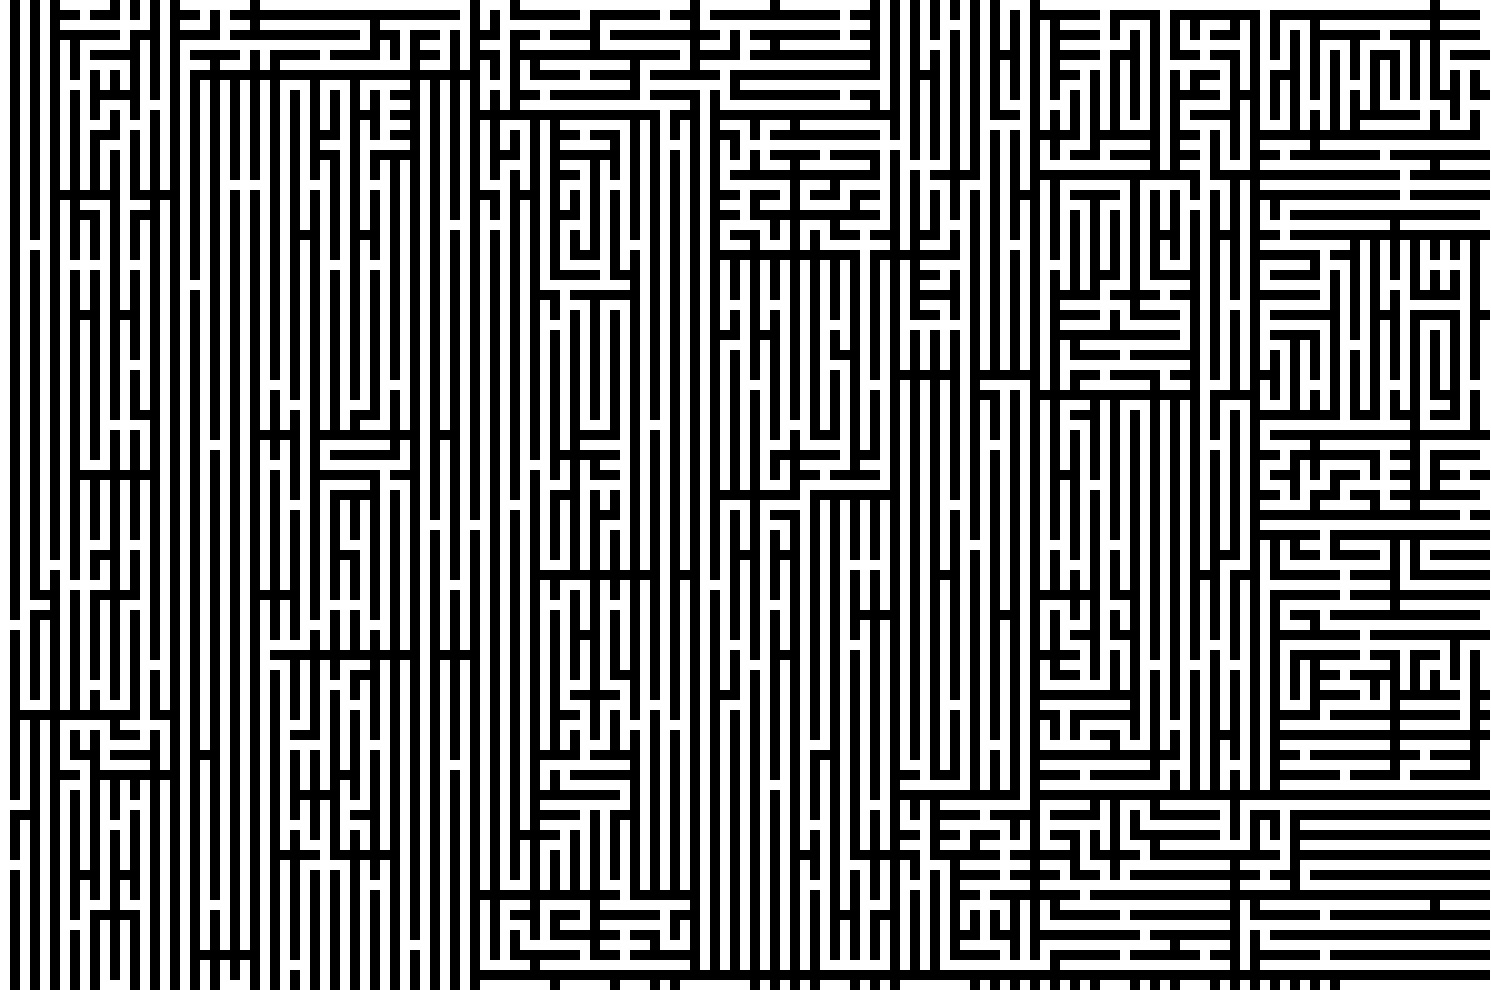
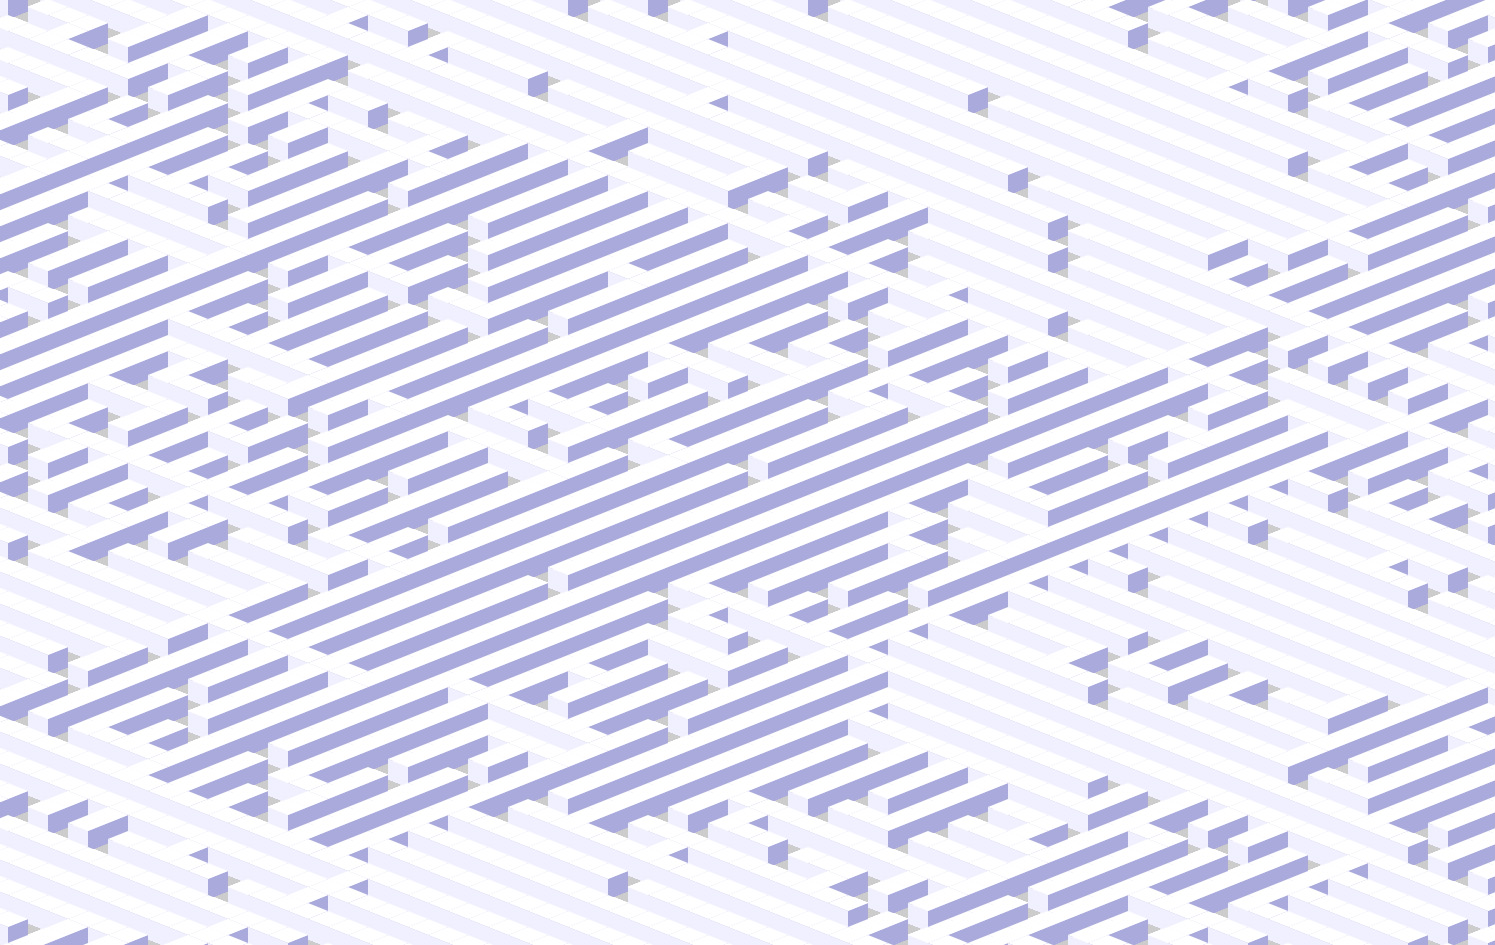
Isometric 3D, another post

diff --git a/project_code/html/gradual.html b/project_code/html/gradual.html
@@ -2,39 +2,99 @@
 <html>
   <head>
     <title>The Gradual Introduction of New Ideas</title>
+
     <meta charset="UTF-8">
-    <script type="text/javascript" src="js/processing-1.4.1.js"></script>
-    <script type="text/javascript" src="js/maze.js"></script>
+
+    <script type="text/javascript" src="js/processing-1.4.1.js"> </script>
+    <script type="text/javascript" src="js/maze.js">             </script>
 
     <script type="text/processing" data-processing-target="canvas">
-        float y_off = 0.0;
+
+
+        boolean isometric = true;
+
+        float CANVAS_WIDTH  = 1500;
+        float CANVAS_HEIGHT = 1000;
+
+        float FIELD_X = +(CANVAS_WIDTH  / 2);
+        float FIELD_Y = -(CANVAS_HEIGHT / 2);
+
+        float BLOCK_WIDTH  = 20;
+        float BLOCK_HEIGHT = 20;
+        float ELEVATION = 8;
 
         void setup()
         {
-           size(1500, 1000);
+           size(CANVAS_WIDTH, CANVAS_HEIGHT);
+
+           noStroke();
         }
 
         void draw()
         {
-           noStroke();
-
            for (int x = 0; x < maze.length; x += 1)
            {
               for (int y = 0; y < maze[x].length; y += 1)
               {
-                 if (maze[y][x])
+                 if (isometric)
                  {
-                    fill(0);
+                    if (maze[y][x])
+                    {
+                       drawCube(x, y, 0);
+                    }
                  }
                  else
                  {
-                    fill(255);
-                 }
+                    if (maze[y][x])
+                    {
+                       fill(0);
+                    }
+                    else
+                    {
+                       fill(255);
+                    }
 
-                 rect((x * 10), (y * 10), (10), (10));
+                    rect((x * 10), (y * 10), (10), (10));
+                 }
               }
            }
+
+           if (isometric)
+           {
+              drawAgent();
+           }
         }
+
+        void drawCube(int xp,int yp, float zp)
+        {
+           float x = FIELD_X + (xp * BLOCK_WIDTH) - (yp * BLOCK_WIDTH);
+           float y = FIELD_Y + (xp * ELEVATION) + (yp * ELEVATION) - (zp * BLOCK_HEIGHT);
+
+           fill(240,240,255);
+           quad(x, y, x, y + BLOCK_HEIGHT, x + BLOCK_WIDTH, y + BLOCK_HEIGHT + ELEVATION, x + BLOCK_WIDTH, y + ELEVATION);
+
+           fill(170,170,220);
+           quad(x + BLOCK_WIDTH, y + BLOCK_HEIGHT + ELEVATION, x + BLOCK_WIDTH, y + ELEVATION, x + BLOCK_WIDTH + BLOCK_WIDTH, y, x + BLOCK_WIDTH + BLOCK_WIDTH, y + BLOCK_HEIGHT);
+
+           fill(255 -(3 * zp));
+           quad(x, y, x + BLOCK_WIDTH, y + ELEVATION, x + BLOCK_WIDTH + BLOCK_WIDTH, y, x + BLOCK_WIDTH, y - ELEVATION);
+        }
+
+        void drawAgent()
+        {
+           fill(0, 0, 0);
+           ellipse(CANVAS_WIDTH / 2, CANVAS_HEIGHT / 2, 24, 24);
+
+           fill(170, 0, 0);
+           ellipse(CANVAS_WIDTH / 2, CANVAS_HEIGHT / 2, 22, 22);
+
+           fill(255, 110, 110);
+           ellipse(0.5 + (CANVAS_WIDTH / 2), -0.5 + (CANVAS_HEIGHT / 2), 21, 21);
+
+           fill(255, 245, 245);
+           ellipse(4.5 + (CANVAS_WIDTH / 2), -4.5 + (CANVAS_HEIGHT / 2), 3, 3);
+        }
+
 
     </script>
   </head>

diff --git a/project_code/html/js/maze.js b/project_code/html/js/maze.js
@@ -1,11 +1,8 @@
-var states = new Array();
-var notes  = new Array();
-
 var punchHoles = true;
 
 var NORTH = 0, EAST = 1, SOUTH = 2, WEST = 3;
 
-var maze = generateMaze(250, 250);
+var maze = generateMaze(120, 120);
 
 function generateMaze(width, height)
 {
@@ -52,13 +49,7 @@ function generateMaze(width, height)
 
 function divide(maze, startX, startY, endX, endY)
 {
-   if (notes)
-   {
-      // Add a new list of comments on this generation.
-      notes.push(new Array());
-   }
-
-   log("Dividing cell with x-values (" + startX + "-" + endX + "), \n y-values (" + startY + "-" + endY + ").");
+   log("Dividing cell with x-values (" + startX + "-" + endX + "), y-values (" + startY + "-" + endY + ").");
 
    /**
     * Draw the insides of the maze, using the recursive division method.  Pick out X and Y locations
@@ -226,21 +217,13 @@ function divide(maze, startX, startY, endX, endY)
       }
    }
 
-   if (states)
-   {
-      // Record the current state of the maze, so we get a replay of the maze generation algorithm.
-      states.push(clone(maze));
-   }
-
    /**
     * Continue to divide the four cells we have created, if they are sufficiently large.
     */
-
    if (wallY - startY > 3 && wallX - startX > 3)
    {
       log("Dividing NORTH WEST cell.");
 
-      // Divide the NORTH WEST cell further.
       divide(maze, startX, startY, wallX, wallY);
    }
 
@@ -248,7 +231,6 @@ function divide(maze, startX, startY, endX, endY)
    {
       log("Dividing NORTH EAST cell.");
 
-      // Divide the NORTH EAST cell further.
       divide(maze, wallX, startY, endX, wallY);
    }
 
@@ -256,7 +238,6 @@ function divide(maze, startX, startY, endX, endY)
    {
       log("Dividing SOUTH EAST cell.");
 
-      // Divide the SOUTH EAST cell further.
       divide(maze, wallX, wallY, endX, endY);
    }
 
@@ -264,7 +245,6 @@ function divide(maze, startX, startY, endX, endY)
    {
       log("Dividing SOUTH WEST cell.");
 
-      // Divide the SOUTH WEST cell further.
       divide(maze, startX, wallY, wallX, endY);
    }
 
@@ -289,11 +269,6 @@ function punchAt(a, b)
 function log(message)
 {
    console.log(message);
-
-   if (notes)
-   {
-      notes[ notes.length - 1 ].push(message);
-   }
 }
 
 function clone(array)

diff --git a/project_posts/2014-02-17-Isometric.md b/project_posts/2014-02-17-Isometric.md
@@ -1,0 +1,11 @@
+## 3D (Kind Of)
+
+The maze is now rendered in isometric 3D, courtesy of this code sample:
+
+http://www.openprocessing.org/sketch/6652#
+
+A sample result is here:
+
+https://github.com/malcolmscurlyhair/devart-template/blob/master/project_images/isometric-maze.png
+
+I've kept the rendering configurable, since it's going to be easier to built the rest of the functionality with a topdown, overhead view.

diff --git a/project_posts/2014-02-01-My-First-Post.md b/project_posts/2014-02-01-My-First-Post.md
@@ -17,4 +17,3 @@ Next on the agenda:
 - Render the maze in isometric 3D.
 - Figure out how to make the canvas take up the entire browser window.
 
-
